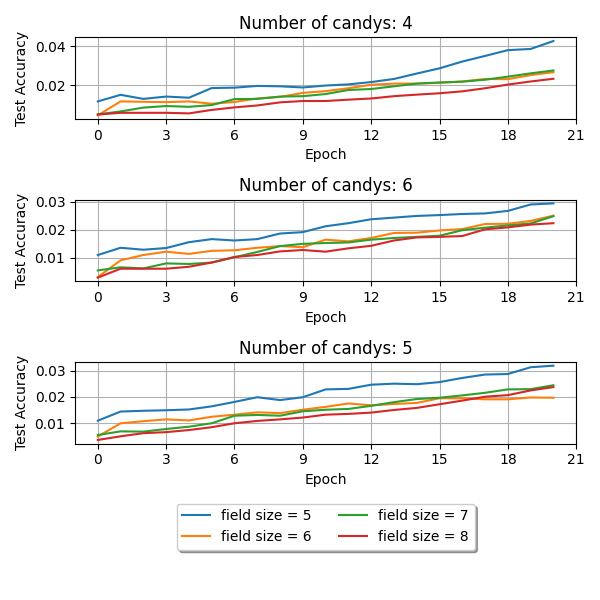
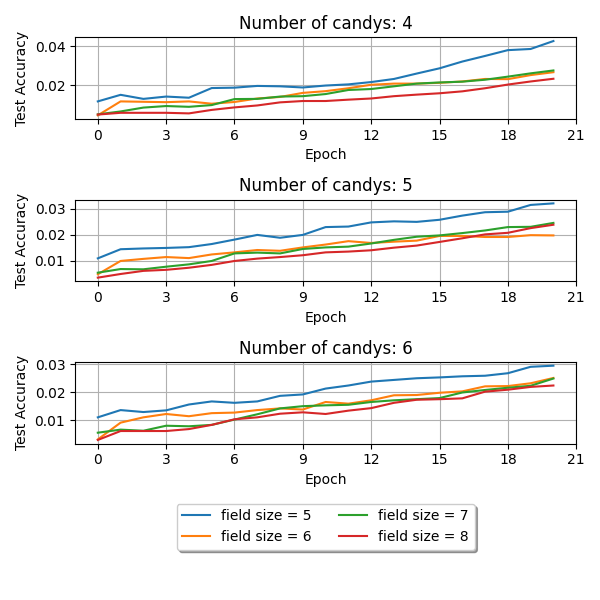
fix plot

Changed region(s): [[0.06, 0.57, 0.96, 0.75], [0.06, 0.3, 0.96, 0.48]]

diff --git a/Decision Transformer/Plots/Plot.py b/Decision Transformer/Plots/Plot.py
@@ -10,8 +10,8 @@ def main():
 
     for num_candy in range(4, 7):
     
-        plot_idx = 4 - num_candy
-
+        plot_idx = num_candy - 4
+    
         for field_size in range(5, 9):
 
             file = f"{base_path}_{field_size}_{num_candy}.csv"
